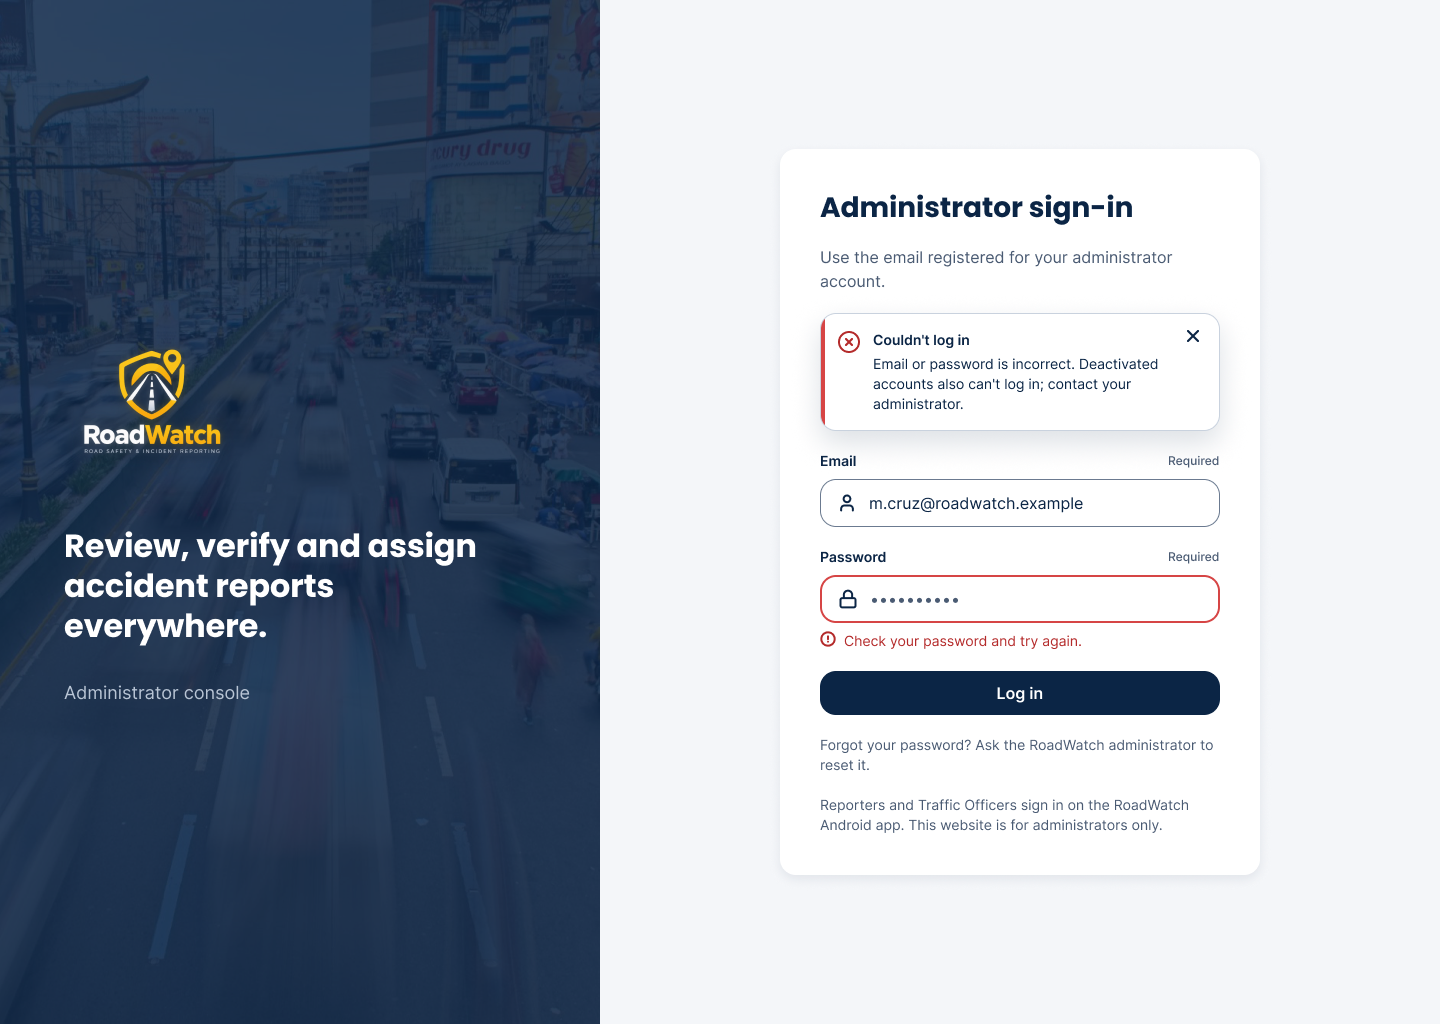
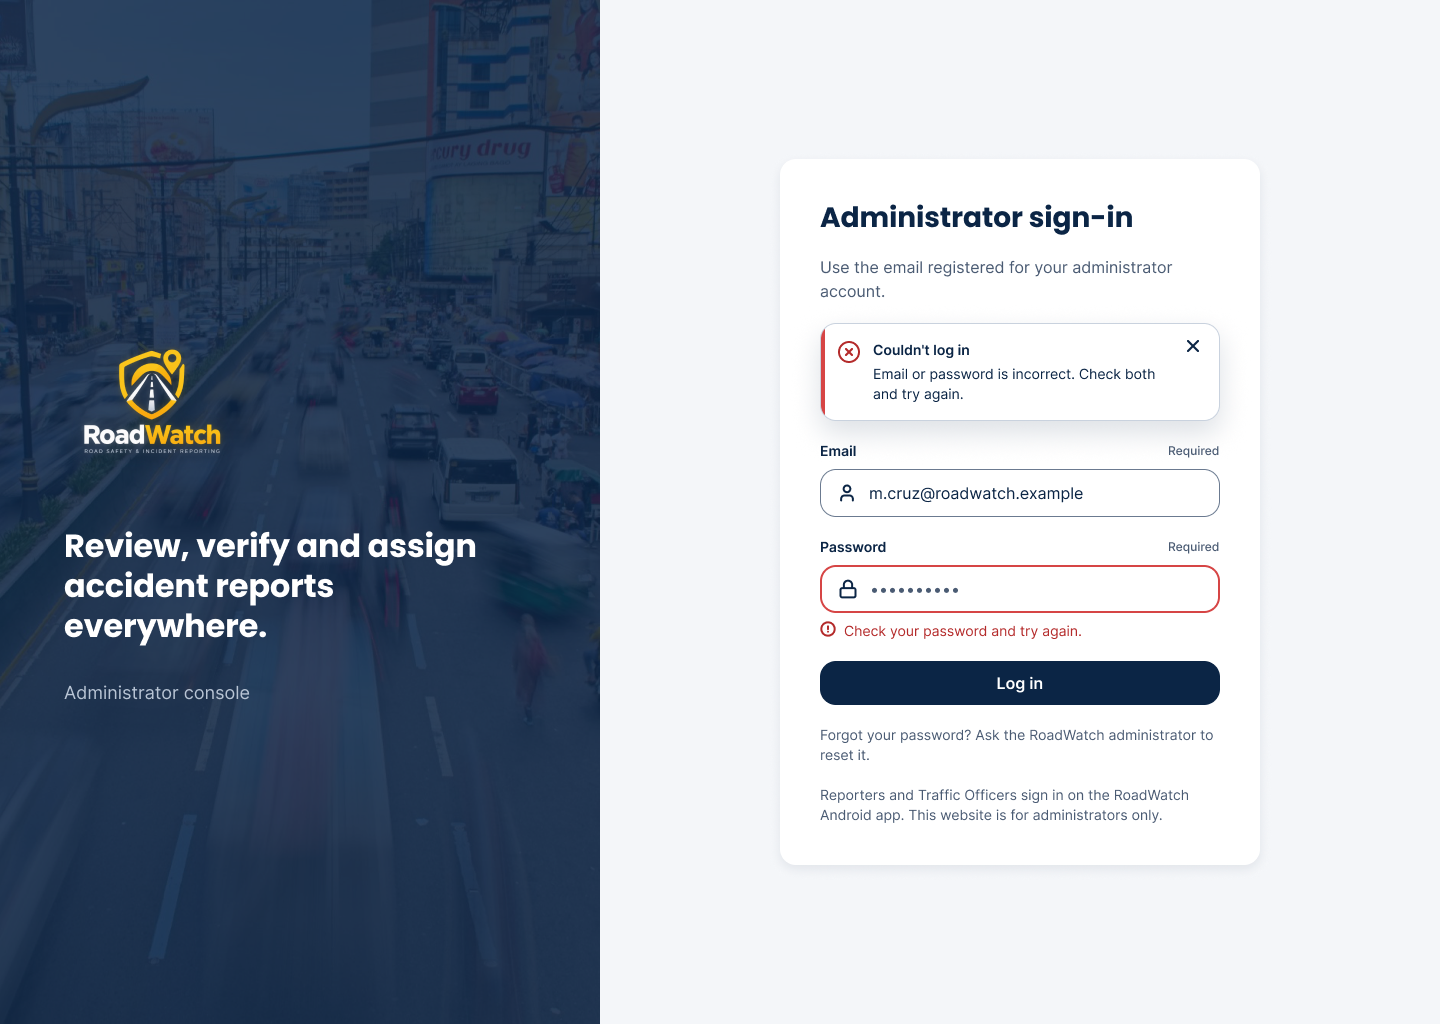
docs(ui-design): Figma frames for the test-run fixes; Figma first, then code in CLAUDE.md
W1 Deactivated account, W1 Error copy, W2 Change password dialog with the field error, O2 Rejected
(read-only for officers), Flows Log out to B1 sign-in. PNGs and figma-index updated.

diff --git a/docs/DECISIONS.md b/docs/DECISIONS.md
@@ -45,4 +45,4 @@ Last updated: Oct 20, 2026 (professor's rulings #35 and #36, Brevo email API #37
 | 39 | Phase 2 plan | Phase 2 stays due **Oct 21** with the core only (the Build Tracker's "done when"): the API on Render, the platform check at login (#36), the web limited to the landing page and the Administrator, and a reporter submitting on mobile that the admin sees on the web. Moved to Phase 3 (Oct 26): the officer mobile app (#36), Brevo (#37) and the approved additions #23 (public road updates), #25 (edit profile, change password), #27 (action log, admin audit logs) and #30 (verify before assign). Design first: the Figma "Archive" page and the officer mobile frames are done now, before the Phase 3 code. Deploy: a `render.yaml` Blueprint (env var names only) plus steps in `docs/SETUP-GUIDE.md` Part F. The Render service lives on **Lenon's** Render account (changed Oct 20: Render's GitHub app can only be installed by the owner of the personal repo, and auto-deploy from `main` needs it); Carl types the database and Cloudinary values himself during setup and still owns deployment. Commits keep the folder-owner rule (#12): `api/` and `database/` under Carl, `web/` under Pauline, `mobile/` and docs under Lenon. Carl's archive `roadwatch-oct20.rar` (Oct 20) was checked: its `api/` matches `dev` (line endings only), so nothing new to merge; it holds a real `.env` and CA file that must never be committed. PO1 and the contribution report get these changes at their next update. | Final (Oct 20) |
 | 40 | Prototype revisions (Oct 20) | Lenon's review of the prototype against the apps. **Design first:** each item is drawn in Figma, approved, then coded (#33). **Both platforms:** a Log out confirmation dialog (Cancel / Log out). **Mobile:** sign-up stays Reporter-only (no role dropdown; security rule, section 11); the Register screen adds the note "Traffic Officer accounts are created by the RoadWatch administrator." **Web landing:** a Light/Dark switch in the header; the emergency card lists the full hotlines with the PNP and BFP seals, as on mobile (#31); a stats bar of four live totals (reports received, verified accident records, cases resolved, traffic officers on duty) from a new public read-only endpoint (totals only, no personal data; API: Carl); an FAQ section styled as a chat (alternating bubbles, 6 to 8 Q&As drafted from the real rules); a QR-code **placeholder** beside "Download the Android app" in the closing call to action. **New web pages:** a public About page at `/about` with "Meet Our Team" (2-column grid, 16 px card radius, initials avatars until photos exist, name, role badge, 2-line bio) linked from the landing About section, while the admin About (W9: version, server status) moves to `/admin/about`; a 404 page (Go back home, Contact support); a 500 page (glitch illustration, bold "500", "Something went wrong on our end", "The error was logged. Please try again in a moment." (no alerting exists, so it does not claim the team was notified), Reload page and Go back home, Contact support) shown when a page crashes (error boundary) or its main request gets a 5xx, and at `/500`. Contact support opens `support@roadwatch-ph.me` (works once the domain and its email forwarding exist, #38). **Deferred:** Framer Motion scroll animations (not added for now; replaced by GSAP in #41). | Final (Oct 20); Figma approved and coded Oct 20 (API `GET /public/stats`, web, mobile) |
 | 41 | Motion and scroll animation (Oct 20) | Lenon asked for a site that feels alive while scrolling. **Library:** GSAP 3.13+ with ScrollTrigger and DrawSVG (`@gsap/react`); Framer Motion is dropped (it was never installed); Three.js, WebGL and Anime.js are not used. **Feel:** calm but alive: reveals, count-ups, parallax on the hero photo, line drawing, FAQ bubbles arriving like a chat; no scroll hijacking (native scroll). **Hero:** a road-and-pin story (an SVG road draws itself, a map pin drops on it, then the report card and timeline arrive). **Scope:** public web pages, the admin dashboard (subtle, no scroll effects) and the Flutter app (built-in animation tools, no new package). **Accessibility:** with reduce motion on (browser setting, Android setting or the app's Reduce motion), everything becomes a short fade; nothing loops forever. **Process:** motion spec (`docs/ui-design/motion-spec.md`) and Figma key frames first, approved, then coded; done before Carl's #30 and #37 work and before the Oct 27 cut-off. | Final (Oct 20); spec and Figma approved, coded Oct 21 (web public pages and admin, Flutter app) |
-| 42 | Fixes from the first full test run (Oct 23) | Pauline's run of `docs/test-plan.md` on the live system found 5 Fails and the evidence showed 2 more; each is a GitHub issue. **Login:** a deactivated account with the right password now gets 403 `ACCOUNT_DEACTIVATED` and the Figma M0 "Account deactivated" message (issue #40); a wrong password or unknown email still gets the one generic 401, so the change reveals nothing to someone without the password (same rule as `WRONG_PLATFORM`). **Workflow:** a report the administrator Rejected is closed for the officer (API 409 `REPORT_REJECTED`, app hides Update status; issue #44); only the administrator can reopen it. **Web:** Log out lands on the Administrator sign-in page (issue #41); account dialogs show the API's field errors under the field (issue #43). **Search:** the Report ID can be typed as shown, `RW-000004` (issue #39). **PDF export:** landscape table with page numbers (issue #42). Mobile changes ship as APK v1.0.1. | Final (Oct 23); coded, API 27/27 and mobile 39 tests pass, web checked in Chromium on a local API; to re-test on the live system |
+| 42 | Fixes from the first full test run (Oct 23) | Pauline's run of `docs/test-plan.md` on the live system found 5 Fails and the evidence showed 2 more; each is a GitHub issue. **Login:** a deactivated account with the right password now gets 403 `ACCOUNT_DEACTIVATED` and the Figma M0 "Account deactivated" message (issue #40); a wrong password or unknown email still gets the one generic 401, so the change reveals nothing to someone without the password (same rule as `WRONG_PLATFORM`). **Workflow:** a report the administrator Rejected is closed for the officer (API 409 `REPORT_REJECTED`, app hides Update status; issue #44); only the administrator can reopen it. **Web:** Log out lands on the Administrator sign-in page (issue #41); account dialogs show the API's field errors under the field (issue #43). **Search:** the Report ID can be typed as shown, `RW-000004` (issue #39). **PDF export:** landscape table with page numbers (issue #42). Mobile changes ship as APK v1.0.1. | Final (Oct 23); coded, API 27/27 and mobile 39 tests pass, web checked in Chromium on a local API; Figma updated the same day but **after** the code (an exception to #33; Lenon restated Figma first, then code): W1 Deactivated account `363:25944`, W1 Error copy, W2 Change password dialog `365:16149`, O2 Rejected `366:3848`, Flows Log out → B1; to re-test on the live system |

diff --git a/docs/ui-design/figma-index.md b/docs/ui-design/figma-index.md
@@ -125,6 +125,7 @@ Text styles: Heading/Hero, Display, H1, H2, H3, Stat; Body/Large, Default, Small
 | O1/Assigned/Default (officer home; GET /officer/reports) | `323:2817` | [Open](https://www.figma.com/design/psx52NYL69RkycK7Z44EAb/RoadWatch-Wireframes?node-id=323-2817) |
 | O1/Assigned/Empty | `323:3010` | [Open](https://www.figma.com/design/psx52NYL69RkycK7Z44EAb/RoadWatch-Wireframes?node-id=323-3010) |
 | O2/Report details/Assigned (full scroll: location + Open in Maps, reporter contact, details, photos, history, sticky Update status) | `324:3382` | [Open](https://www.figma.com/design/psx52NYL69RkycK7Z44EAb/RoadWatch-Wireframes?node-id=324-3382) |
+| O2/Report details/Rejected (officer, read-only: no Update status, note instead; issue #44, Oct 23) | `366:3848` | [Open](https://www.figma.com/design/psx52NYL69RkycK7Z44EAb/RoadWatch-Wireframes?node-id=366-3848) |
 | O3/Update status (bottom sheet: status + official remarks) | `325:3328` | [Open](https://www.figma.com/design/psx52NYL69RkycK7Z44EAb/RoadWatch-Wireframes?node-id=325-3328) |
 | O4/Report details/Update saved (toast) | `325:3567` | [Open](https://www.figma.com/design/psx52NYL69RkycK7Z44EAb/RoadWatch-Wireframes?node-id=325-3567) |
 | O5/Notifications/Default (officer: assignment alerts) | `323:3085` | [Open](https://www.figma.com/design/psx52NYL69RkycK7Z44EAb/RoadWatch-Wireframes?node-id=323-3085) |
@@ -144,11 +145,13 @@ Text styles: Heading/Hero, Display, H1, H2, H3, Stat; Body/Large, Default, Small
 | W1/Login/Administrator · Error (1440) | `121:57` | [Open](https://www.figma.com/design/psx52NYL69RkycK7Z44EAb/RoadWatch-Wireframes?node-id=121-57) |
 | W1/Login/Administrator · Responsive (390) | `121:126` | [Open](https://www.figma.com/design/psx52NYL69RkycK7Z44EAb/RoadWatch-Wireframes?node-id=121-126) |
 | W1/Login/Administrator · Mobile-only account (1440; reporter or officer account on the web, #36) | `321:15655` | [Open](https://www.figma.com/design/psx52NYL69RkycK7Z44EAb/RoadWatch-Wireframes?node-id=321-15655) |
+| W1/Login/Administrator · Deactivated account (1440; right password on a deactivated account, issue #40, Oct 23) | `363:25944` | [Open](https://www.figma.com/design/psx52NYL69RkycK7Z44EAb/RoadWatch-Wireframes?node-id=363-25944) |
 | Handoff note/Role-based redirect | `121:182` | [Open](https://www.figma.com/design/psx52NYL69RkycK7Z44EAb/RoadWatch-Wireframes?node-id=121-182) |
 | W2/Dashboard (1440) | `123:108` | [Open](https://www.figma.com/design/psx52NYL69RkycK7Z44EAb/RoadWatch-Wireframes?node-id=123-108) |
 | W2/Dashboard (1440) · Dark theme | `166:4256` | [Open](https://www.figma.com/design/psx52NYL69RkycK7Z44EAb/RoadWatch-Wireframes?node-id=166-4256) |
 | W2/Dashboard · User menu open (1440) | `196:4514` | [Open](https://www.figma.com/design/psx52NYL69RkycK7Z44EAb/RoadWatch-Wireframes?node-id=196-4514) |
 | W2/Overlay/Log out (dialog, all staff screens, #40) | `347:36709` | [Open](https://www.figma.com/design/psx52NYL69RkycK7Z44EAb/RoadWatch-Wireframes?node-id=347-36709) |
+| W2/Overlay/Change password · Wrong current password (dialog; API field error under the field, issue #43, Oct 23) | `365:16149` | [Open](https://www.figma.com/design/psx52NYL69RkycK7Z44EAb/RoadWatch-Wireframes?node-id=365-16149) |
 | W3/Report management/Default (1440) | `124:492` | [Open](https://www.figma.com/design/psx52NYL69RkycK7Z44EAb/RoadWatch-Wireframes?node-id=124-492) |
 | W3/Report management/No results (1440) | `124:1091` | [Open](https://www.figma.com/design/psx52NYL69RkycK7Z44EAb/RoadWatch-Wireframes?node-id=124-1091) |
 | W3/Report management/Loading (1440) | `124:1321` | [Open](https://www.figma.com/design/psx52NYL69RkycK7Z44EAb/RoadWatch-Wireframes?node-id=124-1321) |
@@ -225,7 +228,7 @@ Flow F (user menu pages) starts at B2 · W2 Dashboard (the same start as E2): op
 
 Landing page (updated Oct 20, #36): the footer "Staff sign-in" goes to B1 Administrator sign-in. "Get the app" (header) and the two "Download the Android app" buttons open the latest GitHub release (APK). The reporter buttons and the header "Log in" were removed; "Track my report" became "See how it works".
 
-Log out: every signed-in web frame in Flows (B2 to B7, D1 to D5, E2, F1, F2) has a Log out button beside the user menu, wired to 0 · W0 Public landing.
+Log out: every signed-in web frame in Flows (B2 to B7, D1 to D5, E2, F1, F2) has a Log out button beside the user menu, wired to B1 · W1 Administrator sign-in (changed from 0 · W0 Public landing on Oct 23, issue #41).
 
 ## Motion (#41, key frames; spec: `docs/ui-design/motion-spec.md`)
 

diff --git a/docs/ui-design/screens/README.md b/docs/ui-design/screens/README.md
@@ -7,8 +7,8 @@ export it again under the same file name. Node IDs for every frame are in `../fi
 
 | Folder | Frames | Size |
 |---|---|---|
-| `mobile/` | 48: M0-M6 (Reporter), Notifications, Settings and its sub-screens, O1-O6 (Traffic Officer), mobile accessibility checklist | 360 x 800 (O2 report details is the full scroll, 360 x 2197) |
-| `web/` | 38: W0 landing, W1 sign-in, W2-W4, W6-W12, Demo video, dialogs, web accessibility checklist | 1440 desktop, 390 phone, 480 dialogs |
+| `mobile/` | 49: M0-M6 (Reporter), Notifications, Settings and its sub-screens, O1-O6 (Traffic Officer), mobile accessibility checklist | 360 x 800 (O2 report details is the full scroll, 360 x 2197) |
+| `web/` | 40: W0 landing, W1 sign-in, W2-W4, W6-W12, Demo video, dialogs, web accessibility checklist | 1440 desktop, 390 phone, 480 dialogs |
 
 File names follow the frame names: `<screen>-<state>[-dark][-<width>].png`, for example
 `w4-report-verified-1440.png` is "W4/Report details/Verified (1440)" and `m6-my-reports-empty.png` is
@@ -17,3 +17,7 @@ File names follow the frame names: `<screen>-<state>[-dark][-<width>].png`, for 
 Figma fixes on Oct 21 (frames re-exported): Edit profile no longer shows the "not built yet" endpoint note,
 Change password's note matches the app, O3 and O4 say only the reporter is notified (as the API does), and the
 W12 500 heading wraps at 390 px.
+
+Added Oct 23 after the first test run (Figma first, then code; DECISIONS #42): `web/w1-login-deactivated-1440.png`,
+`web/w2-change-password-dialog.png`, `mobile/o2-report-details-rejected.png`; `web/w1-login-error-1440.png` re-exported
+with the generic "Email or password is incorrect" copy.

diff --git a/CLAUDE.md b/CLAUDE.md
@@ -368,6 +368,7 @@ Done-when targets: Oct 16 the DB has 8 tables and API health passes; Oct 21 a re
 ## 20. Instructions for Claude Code
 
 **Before changing anything**
+- **Figma first, then code (DECISIONS #33; Lenon, Oct 23).** Any change a user can see (new screen, state, message, button, navigation) is drawn or edited in the Figma file first (frames on Mobile/Web, plus the Flows wiring), shown to Lenon, then coded to match. This includes bug fixes that change UI text or behavior. Update `docs/ui-design/figma-index.md` and the PNGs in `docs/ui-design/screens/` in the same change.
 - Inspect the existing files first (`ls`, read the relevant folder, check `package.json`, `database/schema.sql`, `docs/DECISIONS.md`). Do not assume this file is up to date with the repo.
 - Understand the current architecture and reuse existing components, functions, naming and dependencies. Avoid rewrites, duplicate implementations and unrelated edits.
 - Preserve working functionality while adding requirements.
